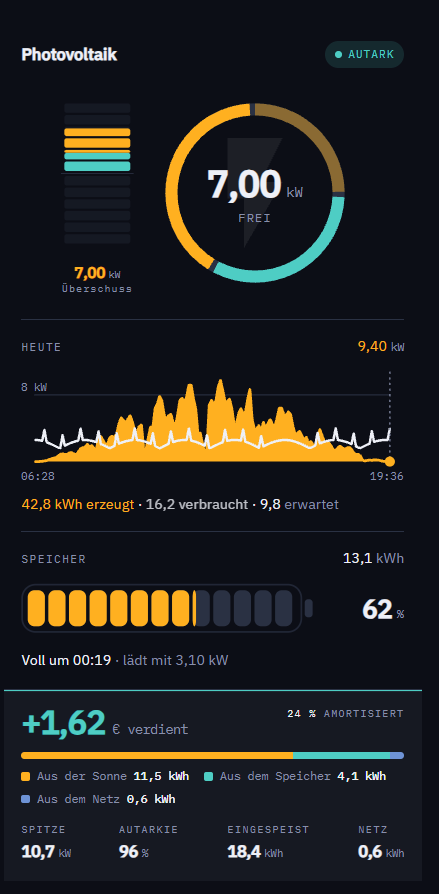
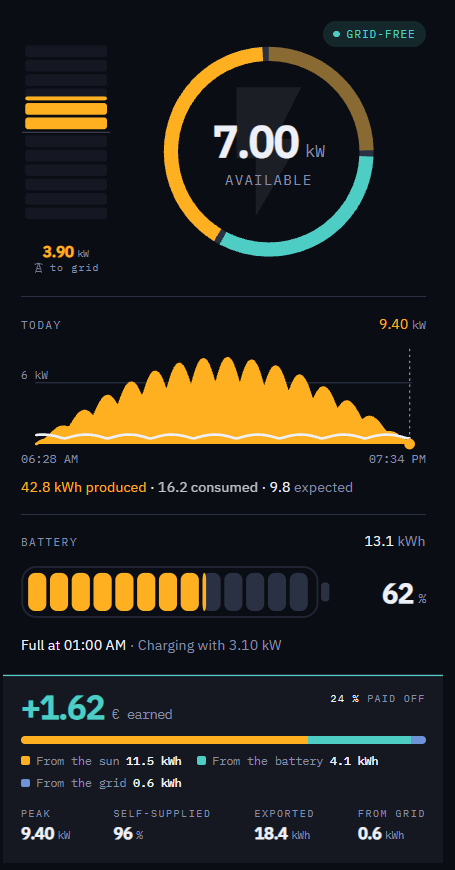
Rewrite the readme around what the card now does
The old one described a card three weeks of changes ago: it named settings
that have since been split or renamed, missed the column scope, the size, the
chip and the derived money entirely, and pointed at two screenshots that no
longer exist.

It now leads with the two English captures, states what the column measures
and what each battery caption means as tables rather than prose, and names the
integrations that feed it — including the one that provides every money figure
it can show.

Version 0.2.0.

Claude-Session: https://claude.ai/code/session_01WYfcA1x3pZN41ubiYaXPxj

diff --git a/README.md b/README.md
@@ -2,16 +2,18 @@
 
 A Lovelace card that answers the two questions a solar house actually raises: **where is my electricity coming from right now**, and **how much is spare**.
 
-<img src="docs/card.png" alt="A sunny afternoon: seven kilowatts spare, the day so far, the battery charging, and what the day earned" width="420">
+<img src="docs/card.png" alt="Midday: seven kilowatts spare, the day so far, the battery charging, and what the day earned" width="430">
 
-Four blocks, each optional:
+Four blocks, each optional and each switched on by the entities you give it:
 
-- **Ring and meter** — the ring splits a total into its parts; the column beside it shows direction, surplus climbing and grid draw sinking. Set a threshold and the column stays held back until there is enough spare to be worth acting on.
-- **Day chart** — production as an area, consumption as a line, on the solar day's axis. Where the line sits above the area, the grid or the battery filled the gap. The words underneath wear the colours of their lines, so it needs no legend.
+- **Ring and column** — the ring splits a total into its parts; the column beside it is a meter with a middle, surplus climbing and grid draw sinking. Set a threshold and the column stays held back until there is enough spare to be worth acting on.
+- **Day chart** — production as an area or hourly bars, consumption as a line, on the solar day's axis. Where the line sits above the area, the grid or the battery filled the gap.
 - **Battery** — segments, a solid bar or a bare bar, coloured by state, with a remaining time averaged over half an hour rather than taken from the instant.
-- **Today** — the money balance, plus any four of peak, self-supplied share, exported, imported, produced, used and still expected.
+- **Today** — the money balance, where the day's energy came from, and any four of peak, self-supplied share, exported, imported, produced, expected and paid off.
 
-Everything is configurable from the visual editor. None of it needs YAML.
+Everything is configurable from the visual editor. **None of it needs YAML.**
+
+---
 
 ## Install
 
@@ -28,6 +30,8 @@ url: /local/community/power-origin-card/power-origin-card.js
 type: module
 ```
 
+---
+
 ## Minimal configuration
 
 Only the house consumption sensor is required. Every other entity switches on the part of the card that needs it.
@@ -38,61 +42,9 @@ entities:
   house: sensor.house_consumption
 ```
 
-## Full configuration
+Nothing is invented for a sensor you have not given. No battery entities means no battery block and no green anywhere; an unreachable inverter says so rather than drawing a zero.
 
-```yaml
-type: custom:power-origin-card
-title: Photovoltaik              # left empty the card shows no heading
-text_scale: 1                    # 1.2 or so for a tablet on a wall
-battery_capacity: 13100          # usable capacity in Wh
-battery_reserve: 0               # percent never delivered
-battery_invert: false            # true if positive means charging
-grid_invert: false               # true if positive means export
-
-entities:
-  house: sensor.house_consumption
-  solar: sensor.pv_power
-  battery_power: sensor.battery_power
-  battery_soc: sensor.battery_state_of_charge
-  grid_power: sensor.grid_power
-  solar_today: sensor.solar_energy_today
-  house_today: sensor.house_energy_today
-  export_today: sensor.export_energy_today
-  import_today: sensor.import_energy_today
-  forecast: sensor.solcast_forecast_remaining_today
-  cost_today: sensor.energy_balance_today
-  cost_export_today: sensor.export_revenue_today
-  cost_import_today: sensor.import_cost_today
-
-sections:
-  ring: true
-  chart: true
-  battery: true
-  today: true
-
-ring:
-  center: surplus                # power | production | surplus | autarky
-  layout: auto                   # auto | beside | below
-  caption: false                 # label under the number, consumption mode only
-  facts: none                    # bars | plain | inline | none
-  meter: true                    # the column beside the ring
-  meter_scale: 0                 # full deflection in kW, 0 derives it
-  meter_target: 2                # spare worth acting on, in kW
-
-chart:
-  consumption: true
-  show_forecast: true
-
-battery:
-  style: segments                # segments | solid | bar
-  segments: 10
-  runtime: true
-  runtime_window: 30             # minutes averaged for the remaining time
-
-today:
-  money: true
-  stats: [peak, autarky, export, import]
-```
+---
 
 ## The four ring modes
 
@@ -105,39 +57,184 @@ today:
 
 `production` and `surplus` fall back to `power` before sunrise: a ring about production has nothing to say when nothing is produced.
 
-<p>
-  <img src="docs/night.png" alt="After sunset: the ring turns to the house, the column steps aside, the battery reckons to sunrise" width="330">
-  <img src="docs/no-battery.png" alt="A system without a battery: the battery block is absent and the ring knows two sources" width="330">
-</p>
+<img src="docs/evening.png" alt="After sunset: a hundred per cent own power, the whole house on the battery, well past sunrise" width="430">
 
-Left, the same card after sunset — the column has stepped aside because nothing is spare and nothing is bought, and the battery reckons to sunrise rather than quoting a number of hours the sun will make nonsense of. Right, a system without a battery: the block is simply absent.
+Evening, the same card: the house runs entirely on the battery, the grid is untouched, and the battery reckons how comfortably it reaches sunrise rather than quoting an hour the sun will make nonsense of.
 
-The value list beside the ring never repeats the number in the middle, and it defaults to hidden while the meter is on, because the meter already names the grid flow and the battery block names the battery.
+---
+
+## What the column measures
+
+The column is a meter with a middle. Up is surplus, down is draw, and one setting decides which boundary it watches:
+
+| `ring.meter_scope` | Up | Down |
+| --- | --- | --- |
+| `grid` *(default)* | export | import |
+| `all` | export and battery charging | import and battery discharge |
+
+`grid` keeps the column on the billing meter, so the ring can name the battery without the two saying the same thing twice. Below fifty watts the column prints no figure at all and says *no grid exchange* — a hundredth of a kilowatt is the meter breathing, not a flow worth a decision.
+
+Its scale is **absolute, not weather-following**: three kilowatts down and the system's yearly peak up, both overridable. A meter scaled to a dull day would show 900 W as nearly full, and 900 W does not run a dishwasher.
+
+---
+
+## What the battery says
+
+| State | Caption |
+| --- | --- |
+| Empties before sunrise | **Lasts until 03:15** · 1.2 kWh left |
+| Only just gets through | **Only just reaches sunrise** |
+| Gets through | **Lasts until sunrise** |
+| Gets through with room to spare | **Well past sunrise** |
+| Down to the reserve | **At the reserve** |
+| Load still jumping | *(nothing)* |
+
+The distinction matters: knowing whether you have to save power tonight or can afford to spend it is the whole point of the line. The remaining time divides by the **averaged** house load, not the instantaneous one — switch on a kettle and an instantaneous estimate drops from eleven hours to forty minutes.
+
+---
+
+## Full configuration
+
+```yaml
+type: custom:power-origin-card
+title: Solar                     # left empty the card shows no heading
+text_scale: 1                    # 1.2 or so for a tablet on a wall
+chip: always                     # always | gridfree | never
+battery_capacity: 13100          # usable capacity in Wh
+battery_reserve: 0               # percent never delivered
+battery_invert: false            # true if positive means charging
+grid_invert: false               # true if positive means export
+
+entities:
+  house: sensor.house_consumption          # the only required entity
+  solar: sensor.pv_power
+  battery_power: sensor.battery_power
+  battery_soc: sensor.battery_state_of_charge
+  grid_power: sensor.grid_power
+  solar_today: sensor.solar_energy_today
+  house_today: sensor.house_energy_today
+  export_today: sensor.export_energy_today
+  import_today: sensor.import_energy_today
+  battery_out_today: sensor.battery_discharge_today
+  forecast: sensor.solcast_forecast_remaining_today
+  cost_today: sensor.energy_balance_today
+  cost_export_today: sensor.export_revenue_today
+  cost_import_today: sensor.import_cost_today
+  price_import: input_number.electricity_price
+  price_export: input_number.feed_in_price
+  amortisation: sensor.system_paid_off_percent
+
+sections:
+  ring: true
+  chart: true
+  battery: true
+  today: true
+
+ring:
+  center: surplus                # power | production | surplus | autarky
+  center_dark: power             # what production and surplus fall back to at night
+  size: auto                     # auto | s | m | l
+  layout: auto                   # auto | beside | below
+  caption: true                  # the word under the number
+  facts: none                    # bars | plain | inline | none
+  meter: true                    # the column beside the ring
+  meter_scope: grid              # grid | all
+  meter_style: blocks            # blocks | bar
+  meter_steps: 6
+  meter_scale: 0                 # full deflection up, in kW; 0 derives it
+  meter_scale_draw: 0            # full deflection down, in kW; 0 uses 3 kW
+  meter_target: 0                # spare worth acting on, in kW; 0 is off
+
+chart:
+  style: area                    # area | bars
+  height: 84
+  consumption: true
+  show_forecast: true
+
+battery:
+  style: segments                # segments | solid | bar
+  segments: 0                    # 0 gives one block per kWh
+  runtime: true
+  runtime_window: 30             # minutes averaged for the remaining time
+
+today:
+  money: true
+  breakdown: true                # earned and paid, under the balance
+  amortisation: true             # paid-off percentage, in the corner
+  origin_bar: true               # where the day's energy came from
+  stats: [peak, autarky, export, amortisation]
+```
+
+---
 
 ## Options
 
+### Entities
+
+| Option | What it does |
+| --- | --- |
+| `house` | **Required.** Instantaneous house consumption. |
+| `solar` | PV power. Without it the ring has no sun segment and the column nothing to weigh. |
+| `battery_power` | Battery power, **positive while discharging**. |
+| `battery_soc` | State of charge in percent. Switches on the battery block. |
+| `grid_power` | Grid power, **positive while importing**. Taken as the truth when set. |
+| `solar_today`, `house_today`, `export_today`, `import_today`, `battery_out_today` | Daily energy totals for the chart note, the origin bar and the today strip. |
+| `forecast` | Energy still expected today, e.g. from Solcast. |
+| `cost_today` | Today's balance in your currency. **Negative means earned.** |
+| `cost_export_today`, `cost_import_today` | The two sides of the balance. |
+| `price_import`, `price_export` | A fixed price per kWh, used only to work the money out — see below. |
+| `amortisation` | How much of the system has paid for itself, in percent. |
+
+### Card
+
 | Option | Default | What it does |
 | --- | --- | --- |
-| `entities.house` | — | **Required.** Instantaneous house consumption. |
-| `entities.solar` | — | PV power. Without it the ring has no sun segment. |
-| `entities.battery_power` | — | Battery power, **positive while discharging**. |
-| `entities.battery_soc` | — | State of charge in percent. Switches on the battery block. |
-| `entities.grid_power` | — | Grid power, **positive while importing**. Taken as the truth when set. |
-| `entities.solar_today` … `import_today` | — | Daily energy totals for the chart note and the today strip. |
-| `entities.forecast` | — | Energy still expected today, e.g. from Solcast. |
-| `entities.cost_today` | — | Today's balance in your currency. **Negative means earned.** |
 | `text_scale` | `1` | Multiplies every type size at once. |
+| `chip` | `always` | The state word in the corner: `always`, `gridfree`, `never`. |
 | `battery_capacity` | `0` | Usable capacity in Wh. Needed for kWh figures and the remaining time. |
 | `battery_reserve` | `0` | Percent held back and not counted as available. |
 | `ring.center` | `power` | Which question the ring answers — see the table above. |
-| `ring.facts` | `bars` | The value list: `bars`, `plain`, `inline` or `none`. Defaults to `none` while the meter is on. |
+| `ring.size` | `auto` | `auto` grows the ring and column when they have the card to themselves; `s`, `m`, `l` fix it. |
+| `ring.facts` | `bars` | The value list: `bars`, `plain`, `inline` or `none`. Defaults to `none` while the column is on. |
 | `ring.layout` | `auto` | Whether the values sit beside the ring or under it. |
+| `ring.caption` | `true` | The word under the centre figure, which names the source when one carries the whole house. |
 | `ring.meter` | `true` | The direction column beside the ring. |
-| `ring.meter_scale` | `0` | Full deflection in kW. `0` takes the system's peak over the past year. |
+| `ring.meter_scope` | `grid` | Whether the column also counts the battery — see the table above. |
+| `ring.meter_style` | `blocks` | Stepped blocks or one continuous bar. |
+| `ring.meter_scale` | `0` | Full deflection up, in kW. `0` takes the system's peak over the past year. |
+| `ring.meter_scale_draw` | `0` | Full deflection down, in kW. `0` uses 3 kW, the band a house lives in. |
 | `ring.meter_target` | `0` | Spare power worth acting on. Below it the column is held back and a line marks the level. |
+| `chart.style` | `area` | A filled area or one bar per hour. |
 | `battery.style` | `segments` | `segments`, `solid`, or `bar` without a casing. |
+| `battery.segments` | `0` | `0` gives one block per kilowatt hour of capacity. |
 | `battery.runtime_window` | `30` | Minutes averaged before dividing. |
 | `today.stats` | `[peak, autarky, export, import]` | Which four values appear at the bottom. |
+
+Options that cannot take effect in the current mode are **not shown in the editor at all** — no switch that does nothing.
+
+---
+
+## Where the money comes from
+
+The card has no idea what you pay, so the money comes from sensors. There are two ways to give it to them.
+
+**From an integration that tracks the tariff.** Point `cost_today`, `cost_export_today`, `cost_import_today` and `amortisation` at its sensors and the card just reads them. This is the way to do it **on a spot tariff**: the price moves through the day, so only something that accumulates as it goes can be right.
+
+**From a fixed price.** On a fixed tariff you can skip three of those pickers. Give the card `price_import` and `price_export` — a number helper each — and it works the two sides out from the energy it already reads, and the balance out of those. Any sensor you do configure wins over the arithmetic, so you can mix the two.
+
+Without either, the money line simply does not appear and everything else works unchanged.
+
+### Integrations that pair well
+
+| Integration | What it feeds |
+| --- | --- |
+| [PV Energy Management+](https://github.com/hoizi89/pv_management_fix) | Balance, export revenue, import cost and the paid-off percentage — every money figure this card can show, on a fixed or a spot tariff. |
+| [Solcast PV Forecast](https://github.com/BJReplay/ha-solcast-solar) | `forecast` — how much the roof still expects today. |
+| [Home Assistant's Energy dashboard](https://www.home-assistant.io/docs/energy/) | The daily energy totals, if your inverter integration does not already provide them. |
+
+The card only asks for numbers and units, never for a particular brand: anything that exposes power in watts and daily energy in kilowatt hours will do. Developed against a **GoodWe** system.
+
+---
 
 ## Sign conventions
 
@@ -148,19 +245,21 @@ Two sensors carry a direction, and inverters disagree about which way is positiv
 
 Get one wrong and the ring shows the wrong colour, which makes it obvious.
 
+---
+
 ## How the numbers are worked out
 
 **The split.** When a grid sensor is configured it is taken first — the billing meter is the most trustworthy device on the wall — then the battery, and the solar share is what remains. Without a grid sensor the card starts from solar instead. Either way the segments add up to exactly the total the ring is drawn from, so the ring cannot lie about its own centre.
 
 **Spare power** is export plus battery charging. Charging counts because it is displaceable: switch something on and the battery simply charges more slowly.
 
-**The meter's scale** is the system's own peak over the past year, rounded up to a whole kilowatt, fetched twice a day. It deliberately does not follow the weather — a meter scaled to a dull day would show 900 W as nearly full, and 900 W does not run a dishwasher.
+**A flow that is a rounding error is not named.** A share under eight per cent *and* under fifty watts is left out of the list rather than given a row of its own.
 
-**The remaining time** is the battery's energy divided by the *averaged* house load, not the instantaneous one: switch on a kettle and an instantaneous estimate drops from eleven hours to forty minutes. If the load is still jumping too much to divide by, the card shows nothing rather than a number that will not hold.
+---
 
 ## Colours
 
-One rule throughout: **the colour names the participant that is not the house.** Sun is gold, battery green, grid blue, and the house itself neutral. The same kilowatts therefore wear the same colour wherever they appear — in the ring, in the meter, and in the value list.
+One rule throughout: **the colour names the participant that is not the house.** Sun is gold, battery green, grid blue, and the house itself neutral. The same kilowatts therefore wear the same colour wherever they appear — in the ring, in the column, in the origin bar and in the value list. There are no traffic lights, which would put a second meaning on the same scale.
 
 Override the accents per card or in a theme:
 
@@ -171,29 +270,25 @@ power-origin-grid-color: "#7b8296"
 power-origin-house-color: "#171a24"
 ```
 
+---
+
 ## Languages
 
 English and German ship with the card, chosen from the Home Assistant user's language with English as the fallback. A test keeps the two tables in step, so a missing string fails the build rather than reaching a dashboard. Further languages are welcome — add a table to `src/localize.ts` and nothing else needs touching.
+
+---
 
 ## Development
 
 ```bash
 npm install
-npm run check     # 134 tests, then the production build
+npm run check     # the test suite, then the production build
 npm run build
 ```
 
-The suite covers the arithmetic and, in jsdom, the rendering: every ring mode against nine system states, including an offline inverter, an empty battery and a system at a standstill.
+The suite covers the arithmetic and, in jsdom, the rendering: every ring mode against ten system states, including an offline inverter, an empty battery and a system at a standstill.
 
-## Where the money figures come from
-
-The card has no idea what you pay, so the money comes from sensors. There are two ways to give it to them.
-
-**From an integration that tracks the tariff.** Point `cost_today`, `cost_export_today`, `cost_import_today` and `amortisation` at its sensors and the card just reads them. [PV Management](https://github.com/Rowdyweb/pv_management) provides all four and pairs well with this card. This is the way to do it **on a spot tariff**: the price moves through the day, so only something that accumulates as it goes can be right.
-
-**From a fixed price.** On a fixed tariff you can skip three of those pickers. Give the card `price_import` and `price_export` — a number helper each, in euros per kilowatt hour — and it works the two sides out from the energy it already reads, and the balance out of those. Any sensor you do configure wins over the arithmetic, so you can mix the two.
-
-Without either, the money line simply does not appear and everything else works unchanged.
+---
 
 ## Licence
 
